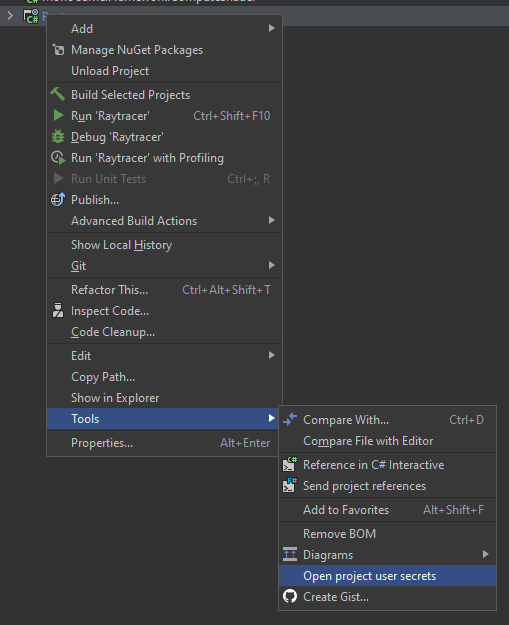
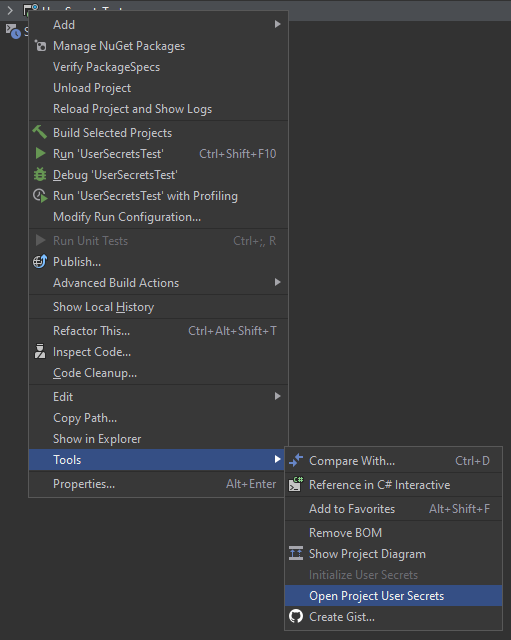
Actualize README.md and usage.png according to the new plugin feature (#20)

diff --git a/README.md b/README.md
@@ -1,10 +1,18 @@
 # .NET Core User Secrets
-Open the user secrets for a project, for more information see the [User Secrets documentation](https://docs.microsoft.com/en-us/aspnet/core/security/app-secrets).
+This plugin adds the ability to create and open User Secrets, for more information see the [User Secrets documentation](https://docs.microsoft.com/en-us/aspnet/core/security/app-secrets).
 
 ## How to use
 
-1. Make sure your .csproj file contains the `<UserSecretsId>...</UserSecretsId>` property
-2. Right-click on the project in Rider > Tools > Open project user secrets
+1. Right-click on the .NET project file and navigate to `Tools` section
+1.
+    Click **Initialize User Secrets** to add support for User Secrets if project doesn't have it yet
+    
+    or
+    
+    Click **Open Project User Secrets** to open existing project secrets file for editing 
+
+Both context menu actions are also supported for `Directory.Build.props` and `Directory.Build.targets` files
+
 ![Usage Example](usage.png)
 
 ## Changelog
